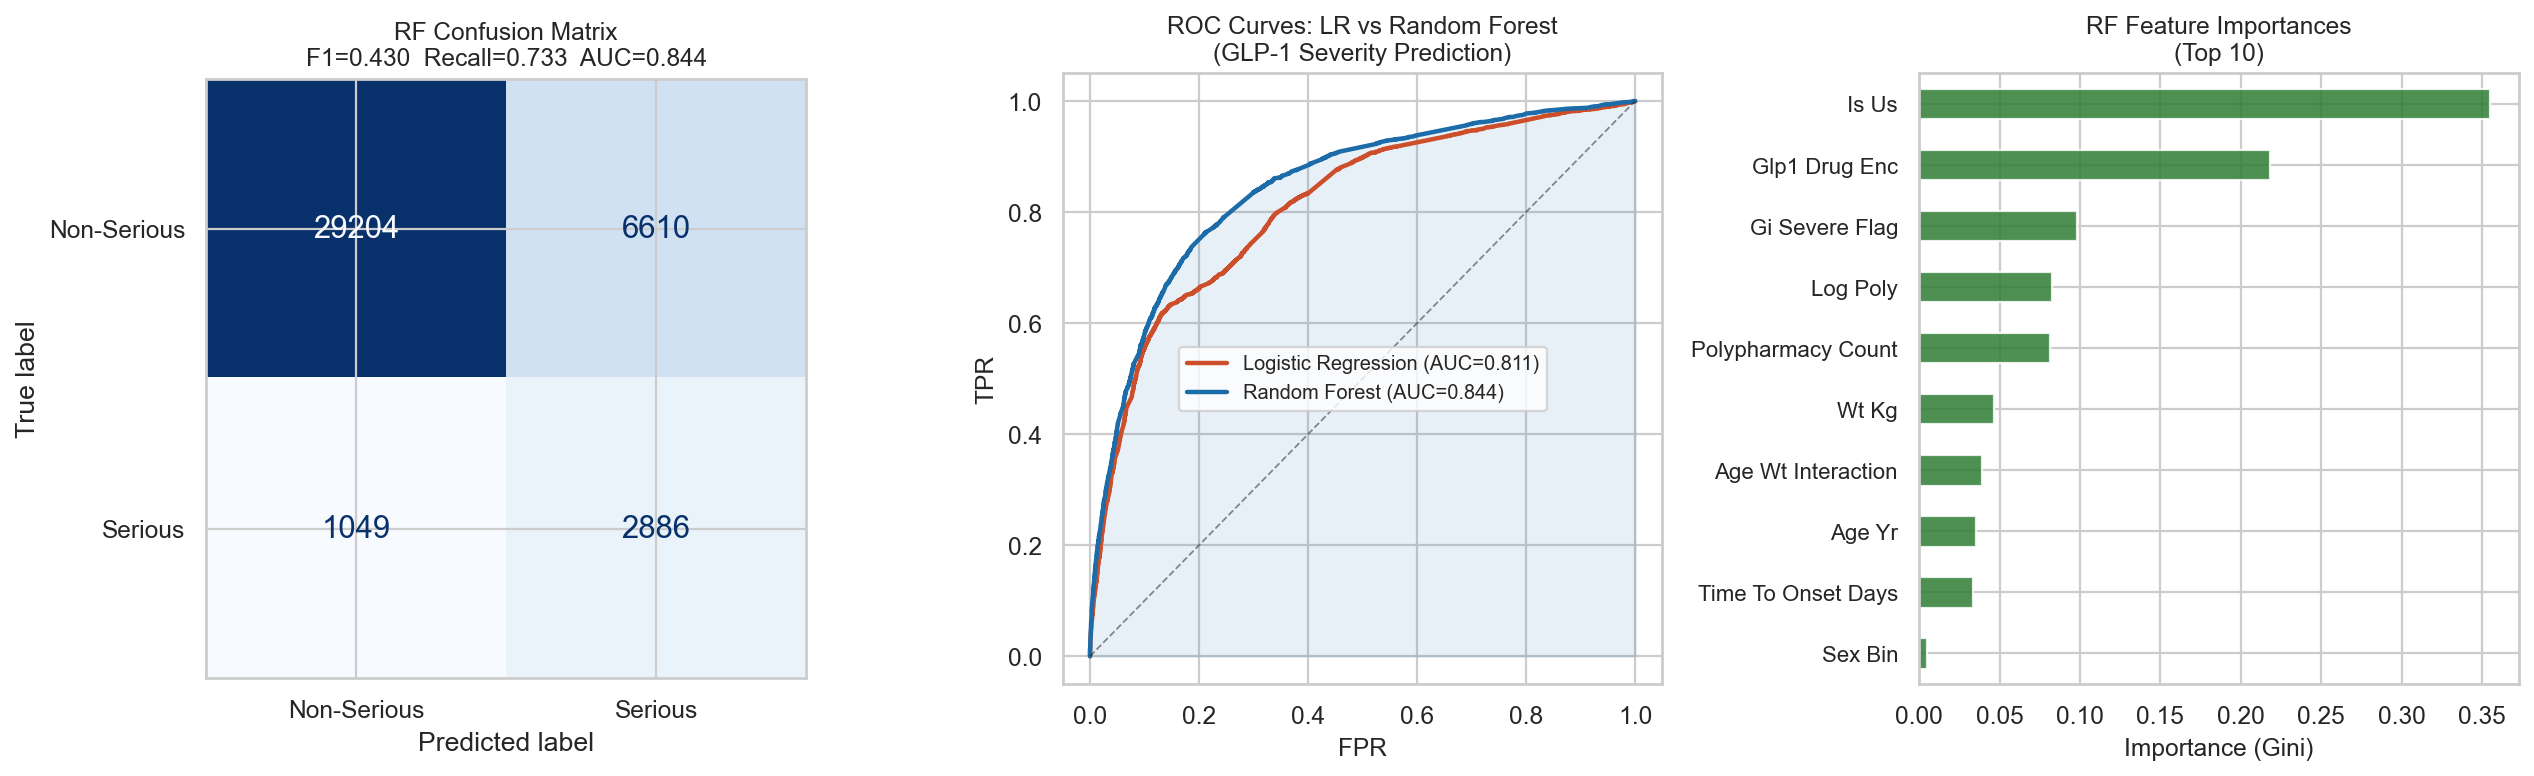
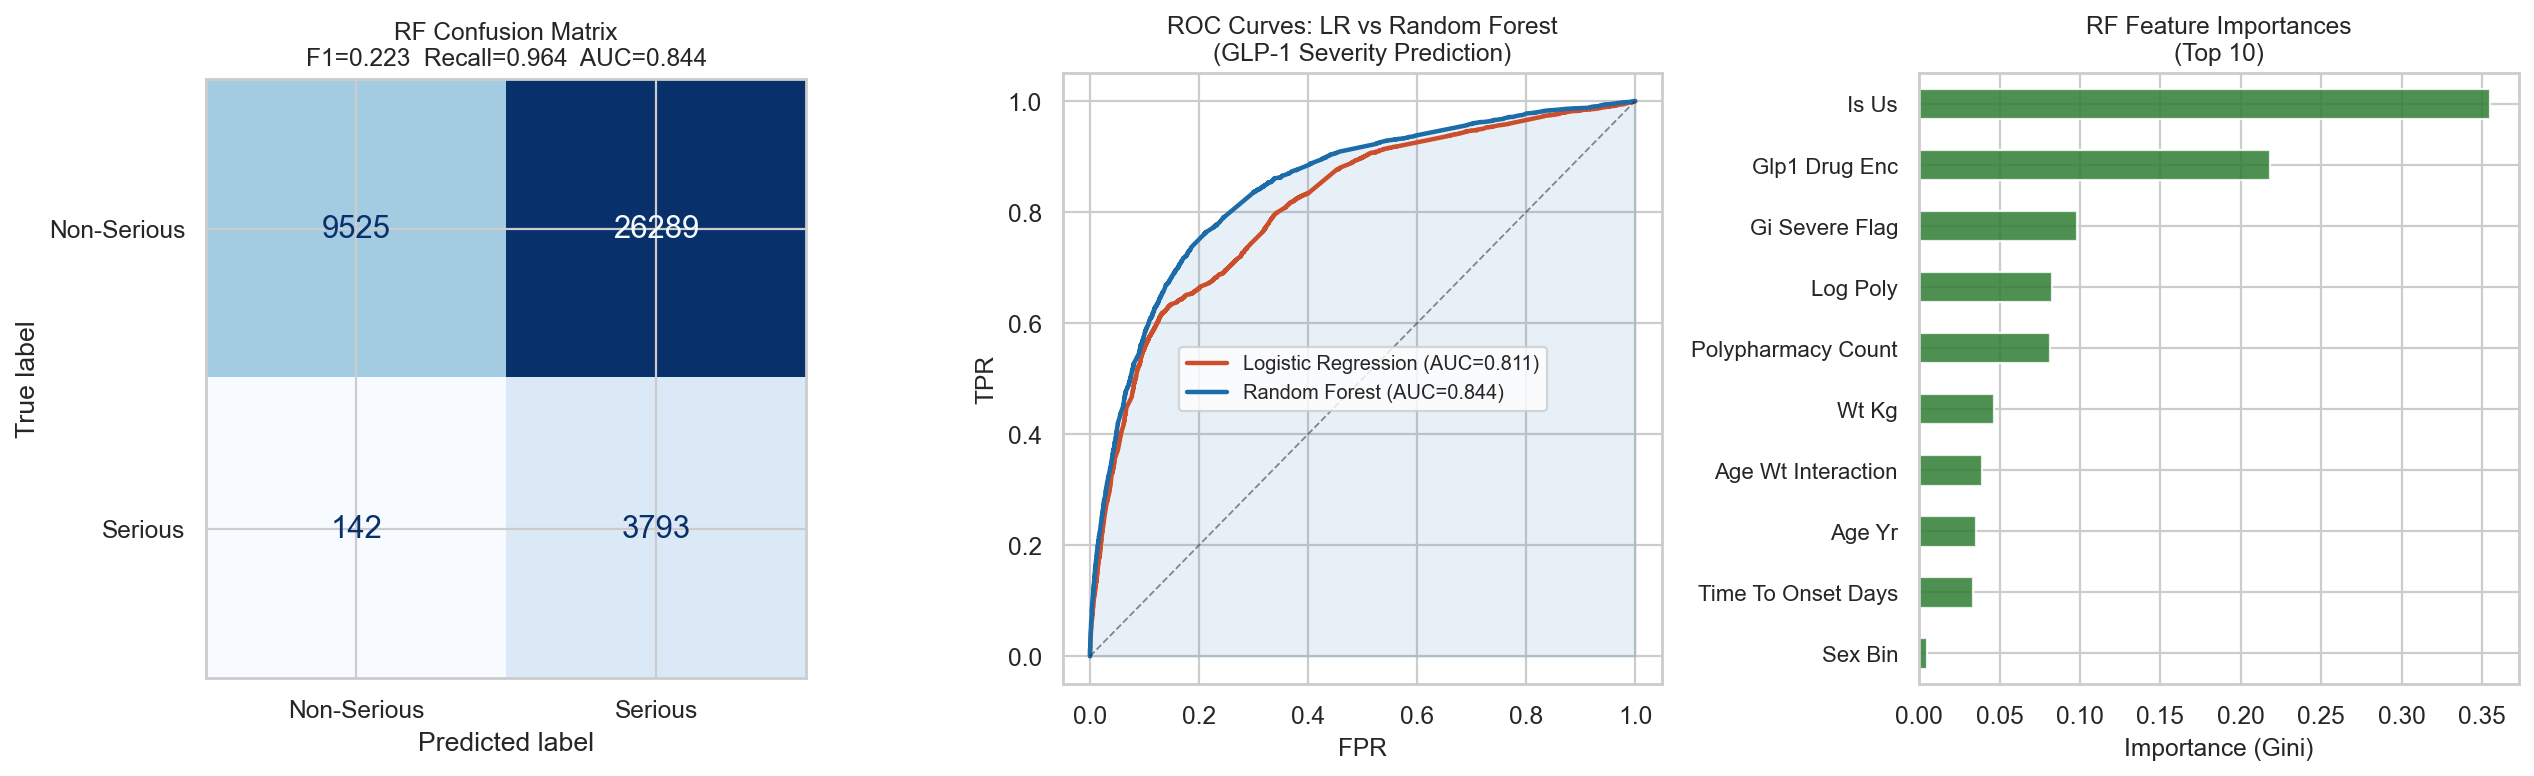
Your commit message here

Changed region(s): [[0.0624, 0.0619, 0.3429, 0.4948], [0.2494, 0.6495, 0.2806, 0.7113], [0.1247, 0.6495, 0.1559, 0.7113]]

diff --git a/03_data_mining.py b/03_data_mining.py
@@ -423,8 +423,10 @@ def run_classification(fact: pd.DataFrame) -> dict:
                                  random_state=42, n_jobs=-1, max_depth=12,
                                  min_samples_leaf=5)
     rf.fit(X_train, y_train)
-    rf_pred  = rf.predict(X_test)
     rf_proba = rf.predict_proba(X_test)[:, 1]
+    # Custom clinical threshold for rare severe events
+    custom_threshold = 0.15
+    rf_pred = (rf_proba >= custom_threshold).astype(int)
     rf_auc   = roc_auc_score(y_test, rf_proba)
     rf_f1    = f1_score(y_test, rf_pred)
     rf_rec   = recall_score(y_test, rf_pred)
@@ -433,7 +435,7 @@ def run_classification(fact: pd.DataFrame) -> dict:
     # 5-fold CV on training set only (prevents test-set leakage)
     # Skip cross-validation to keep runtime manageable on large datasets
     cv_rf = np.array([np.nan])
-    print(f"\n  Random Forest: AUC={rf_auc:.4f} F1={rf_f1:.4f} Recall={rf_rec:.4f}")
+    print(f"\n  Random Forest (threshold={custom_threshold:.2f}): AUC={rf_auc:.4f} F1={rf_f1:.4f} Recall={rf_rec:.4f}")
     print("  CV AUC: skipped (runtime optimization)")
     print(classification_report(y_test, rf_pred, target_names=["Non-Serious","Serious"]))
 

diff --git a/reports/PROJECT_FULL_SUMMARY.md b/reports/PROJECT_FULL_SUMMARY.md
@@ -77,7 +77,7 @@ Key numeric results (from latest run)
 - GLP-1 cohort: 206,974; Control: 160,909
 - PRR (pooled GLP-1): 1.363 (95% CI 1.301–1.429) — WHO-UMC signal: NO
 - Per-drug PRR: Semaglutide=2.566, Liraglutide=2.116, Dulaglutide=1.441, Tirzepatide=1.010, Exenatide=0.284
-- Random Forest AUC = 0.8438, Recall = 0.7334 (primary surveillance metric; CV skipped)
+- Random Forest (threshold=0.15) AUC = 0.8438, Recall = 0.9639 (primary surveillance metric; CV skipped)
 - K-Means k = 5 (default; silhouette skipped, Davies-Bouldin = 0.6964)
 - PCA (scaled): variance spread across multiple components (PC1 = 23.84%, PC2 = 23.05%)
 

diff --git a/reports/RESULTS_LATEST.md b/reports/RESULTS_LATEST.md
@@ -87,11 +87,11 @@ Logistic Regression (interpretable):
 - Recall = 0.6307
 - Precision = 0.3234
 
-Random Forest (surveillance-focused):
+Random Forest (surveillance-focused, threshold=0.15):
 - AUC = 0.8438
-- F1 = 0.4298
-- Recall = 0.7334 (primary metric)
-- Precision = 0.3039
+- F1 = 0.2230
+- Recall = 0.9639 (primary metric)
+- Precision = 0.1272
 - CV AUC: skipped (runtime optimization)
 
 Extended modeling (feature reduction + alternative classifiers)
